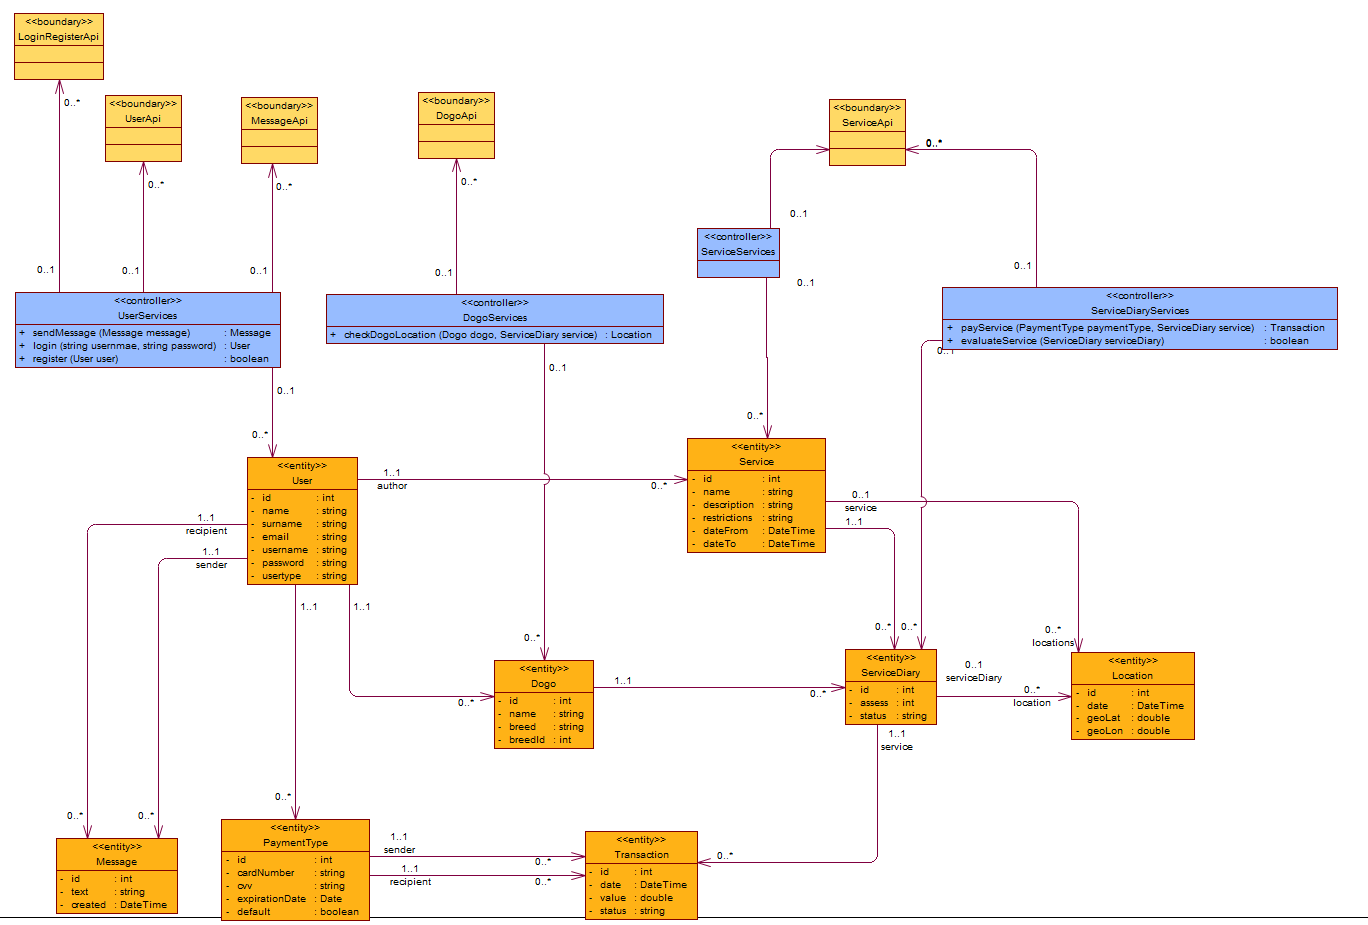
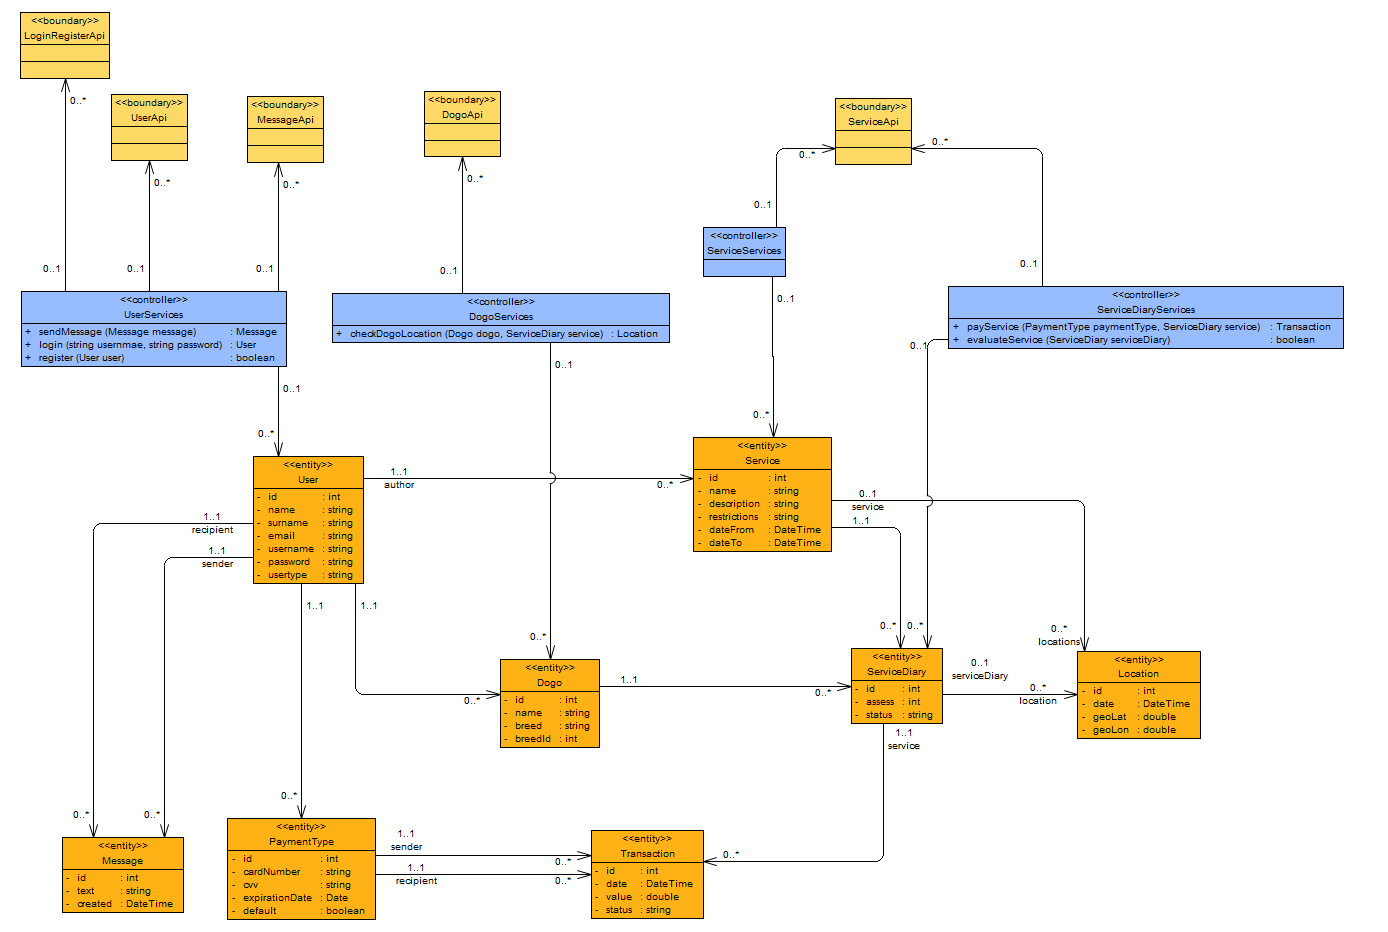
razredni diagrami

diff --git a/docs/nacrt/README.md b/docs/nacrt/README.md
@@ -42,9 +42,7 @@
 
 #### Razredni diagram čelnega dela aplikacije
 
-**TO-DO**
-
-Zankrat upoštevaj, da so kontrolerji na frontendu enaki kot na backeendu. Boundary razredi za zaslonske maske pa se itak deifnira znotraj PU-
+![](../img/3LP_razredniDiagram_frontend.png)
 
 ### 2.2 Opis razredov
 
